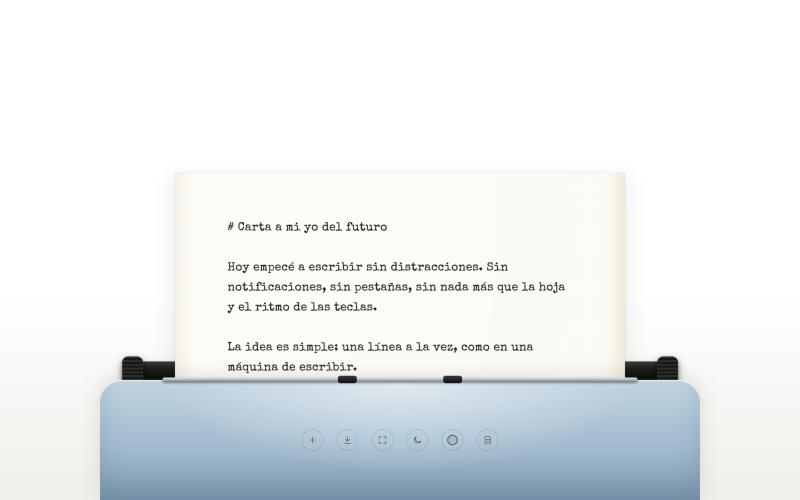
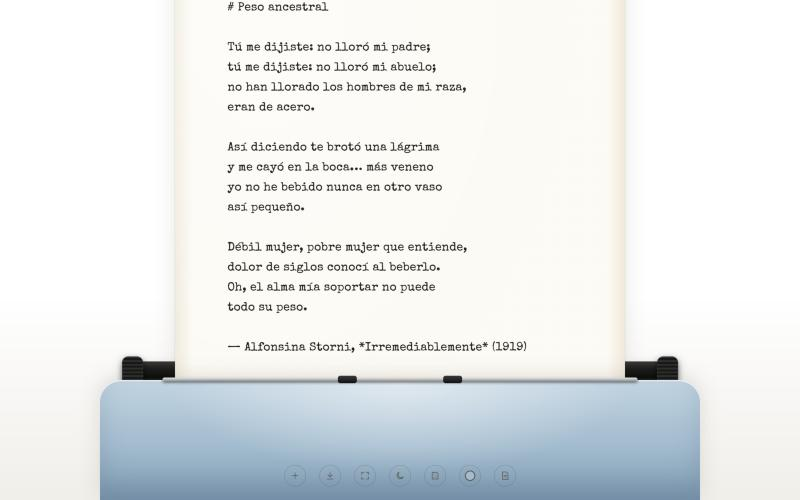
Modo retro, versión móvil y botones fijos
- Modo retro: hoja de papel madera, tinta marrón y una foto panorámica
  del mecanismo de una máquina antigua a todo el ancho (imágenes
  generadas con Flux 2 Pro y Flux Pro 1.1 Ultra vía Comfy Cloud).
- La primera hoja muestra "Peso ancestral" de Alfonsina Storni
  (dominio público).
- Celular y tablet: toda la pantalla es la hoja.
- Los siete botones quedan siempre en el mismo lugar, con mejor
  contraste sobre la foto del modo retro.
- Al abrir, la hoja queda alineada en la última línea sin animación.
- README actualizado con capturas nuevas de todos los modos.

diff --git a/components/Typewriter.tsx b/components/Typewriter.tsx
@@ -7,6 +7,29 @@ const THEME_KEY = "typewriter:theme";
 
 const MACHINE_KEY = "typewriter:machine";
 const MACHINE_OFF_KEY = "typewriter:machine-off";
+const RETRO_KEY = "typewriter:retro";
+
+// Shown the first time the app is opened, before anything has been saved.
+// Alfonsina Storni (1892–1938), "Peso ancestral" — public domain.
+const WELCOME_TEXT = `# Peso ancestral
+
+Tú me dijiste: no lloró mi padre;
+tú me dijiste: no lloró mi abuelo;
+no han llorado los hombres de mi raza,
+eran de acero.
+
+Así diciendo te brotó una lágrima
+y me cayó en la boca… más veneno
+yo no he bebido nunca en otro vaso
+así pequeño.
+
+Débil mujer, pobre mujer que entiende,
+dolor de siglos conocí al beberlo.
+Oh, el alma mía soportar no puede
+todo su peso.
+
+— Alfonsina Storni, *Irremediablemente* (1919)
+`;
 
 type Theme = "dark" | "light";
 
@@ -43,11 +66,14 @@ export default function Typewriter() {
   const [theme, setTheme] = useState<Theme>("dark");
   const [machineStyle, setMachineStyle] = useState<MachineStyle>("negra");
   const [machineOff, setMachineOff] = useState(false);
+  const [retro, setRetro] = useState(false);
 
   const scrollerRef = useRef<HTMLDivElement>(null);
   const textareaRef = useRef<HTMLTextAreaElement>(null);
   const mirrorRef = useRef<HTMLDivElement>(null);
   const machineRef = useRef<HTMLDivElement>(null);
+  // Becomes true once the draft has been restored and aligned; from then on alignment animates.
+  const settledRef = useRef(false);
 
   // Keep the line with the caret right above the paper bail, like a real carriage.
   const alignCaret = useCallback((smooth: boolean) => {
@@ -74,11 +100,12 @@ export default function Typewriter() {
   // Load the saved draft once on mount.
   useEffect(() => {
     try {
-      setText(localStorage.getItem(STORAGE_KEY) ?? "");
+      setText(localStorage.getItem(STORAGE_KEY) ?? WELCOME_TEXT);
       if (localStorage.getItem(THEME_KEY) === "light") setTheme("light");
       const savedStyle = localStorage.getItem(MACHINE_KEY);
       if (MACHINE_STYLES.includes(savedStyle as MachineStyle)) setMachineStyle(savedStyle as MachineStyle);
       setMachineOff(localStorage.getItem(MACHINE_OFF_KEY) === "1");
+      setRetro(localStorage.getItem(RETRO_KEY) === "1");
     } catch {}
     setLoaded(true);
     // Resume writing where the draft left off.
@@ -88,6 +115,7 @@ export default function Typewriter() {
       textarea.focus();
       textarea.setSelectionRange(textarea.value.length, textarea.value.length);
       alignCaret(false);
+      settledRef.current = true;
     });
   }, [alignCaret]);
 
@@ -108,8 +136,8 @@ export default function Typewriter() {
     if (!textarea) return;
     textarea.style.height = "auto";
     textarea.style.height = `${textarea.scrollHeight}px`;
-    alignCaret(loaded);
-  }, [text, loaded, alignCaret]);
+    alignCaret(settledRef.current);
+  }, [text, loaded, retro, alignCaret]);
 
   // Re-align when the caret moves (arrows, clicks) or the window changes size.
   useEffect(() => {
@@ -186,6 +214,14 @@ export default function Typewriter() {
     textareaRef.current?.focus();
   }, []);
 
+  const toggleRetro = useCallback(() => {
+    setRetro((current) => {
+      save(RETRO_KEY, current ? "0" : "1");
+      return !current;
+    });
+    textareaRef.current?.focus();
+  }, []);
+
   const toggleMachine = useCallback(() => {
     setMachineOff((current) => {
       save(MACHINE_OFF_KEY, current ? "0" : "1");
@@ -219,7 +255,7 @@ export default function Typewriter() {
 
   return (
     <main
-      className={`desk${typing ? " is-typing" : ""}${machineOff ? " machine-off" : ""}`}
+      className={`desk${typing ? " is-typing" : ""}${machineOff ? " machine-off" : ""}${retro ? " retro" : ""}`}
       data-theme={theme}
       data-machine={machineStyle}
     >
@@ -308,16 +344,32 @@ export default function Typewriter() {
               )}
             </svg>
           </button>
-          {!machineOff && (
-            <button
-              className="key"
-              onClick={nextMachineStyle}
-              title={`Estilo de máquina: ${machineStyle}`}
-              aria-label={`Cambiar estilo de máquina (actual: ${machineStyle})`}
-            >
-              <span className="swatch" />
-            </button>
-          )}
+          <button
+            className={`key${retro ? " is-active" : ""}`}
+            onClick={toggleRetro}
+            title={retro ? "Desactivar modo retro" : "Modo retro (papel madera)"}
+            aria-label="Modo retro"
+            aria-pressed={retro}
+          >
+            <svg viewBox="0 0 24 24" aria-hidden>
+              <path d="M5 4h11l3 3v13H5z" />
+              <path d="M8.5 9.5h.01M12 8.5h.01M10 13h.01M14.5 12h.01M8.5 16.5h.01M13 16h.01M15.5 15.5h.01" />
+            </svg>
+          </button>
+          {/* Always rendered so the row never shifts; disabled when there is no machine color to change */}
+          <button
+            className="key"
+            onClick={nextMachineStyle}
+            disabled={machineOff || retro}
+            title={
+              machineOff || retro
+                ? "El color de máquina no aplica en este modo"
+                : `Estilo de máquina: ${machineStyle}`
+            }
+            aria-label={`Cambiar estilo de máquina (actual: ${machineStyle})`}
+          >
+            <span className="swatch" />
+          </button>
           <button
             className="key"
             onClick={toggleMachine}

diff --git a/app/globals.css b/app/globals.css
@@ -38,6 +38,39 @@
   --machine-drop: 0 -6px 30px rgba(60, 50, 30, 0.14);
 }
 
+/* ---------- Retro mode: kraft paper (papel madera) and worn-ribbon ink ---------- */
+
+.desk.retro {
+  --ink: #2b1d11;
+  --ink-faint: rgba(43, 29, 17, 0.4);
+  --ink-shadow: 0 0 0.9px rgba(43, 29, 17, 0.75);
+  --paper-bg:
+    linear-gradient(to right, rgba(90, 60, 25, 0.16), transparent 4%, transparent 96%, rgba(90, 60, 25, 0.16)),
+    url("/papel-madera.jpg") top center / 1024px auto repeat;
+  --desk-bg: radial-gradient(ellipse at 50% 30%, #3a2c20, #17110c 70%);
+  --paper-shadow: 0 0 0 1px rgba(60, 35, 10, 0.25), 0 12px 40px rgba(0, 0, 0, 0.5);
+}
+
+.desk.retro[data-theme="light"] {
+  --desk-bg: linear-gradient(to bottom, #f7f1e6 60%, #ebe0cc);
+  --paper-shadow: 0 0 0 1px rgba(60, 35, 10, 0.18), 0 10px 30px rgba(80, 55, 20, 0.2);
+}
+
+/* Retro machine: worn black body; overrides the chosen machine style */
+.desk.retro:not(.machine-off)[data-machine] {
+  /* AI-generated photo (Flux 2 Pro via Comfy Cloud), darkened at the bottom so the controls stay legible */
+  --machine-bg:
+    linear-gradient(to bottom, transparent 55%, rgba(8, 7, 6, 0.85) 90%),
+    url("/maquina-retro.jpg") top center / cover no-repeat,
+    #0b0a09;
+  --machine-inset: inset 0 0 0 transparent;
+  --control: #b8a98c;
+  --control-strong: #eadcc0;
+  --control-border: rgba(234, 220, 192, 0.25);
+  --control-border-strong: rgba(234, 220, 192, 0.6);
+  --control-hover-bg: rgba(234, 220, 192, 0.06);
+}
+
 /* ---------- Machine styles (body color) ---------- */
 
 /* Controls sitting on a dark body */
@@ -187,9 +220,11 @@ body {
   min-height: calc(var(--paper-w) * 1.294);
   margin: 0 auto;
   padding: var(--paper-pad-top) var(--paper-pad-x) 120px;
-  background:
+  background: var(
+    --paper-bg,
     radial-gradient(ellipse at 20% 10%, rgba(255, 255, 255, 0.5), transparent 60%),
-    linear-gradient(to right, var(--paper-edge), var(--paper) 4%, var(--paper) 96%, var(--paper-edge));
+    linear-gradient(to right, var(--paper-edge), var(--paper) 4%, var(--paper) 96%, var(--paper-edge))
+  );
   box-shadow: var(--paper-shadow);
 }
 
@@ -220,7 +255,7 @@ textarea.type-text {
   background: transparent;
   color: var(--ink);
   caret-color: var(--ink);
-  text-shadow: 0 0 0.6px rgba(35, 32, 28, 0.55);
+  text-shadow: var(--ink-shadow, 0 0 0.6px rgba(35, 32, 28, 0.55));
 }
 
 textarea.type-text::placeholder {
@@ -267,8 +302,6 @@ textarea.type-text::placeholder {
 /* ---------- Machine hidden: just the sheet ---------- */
 
 .machine-off .machine {
-  justify-content: flex-end;
-  padding-bottom: 22px;
   pointer-events: none;
 }
 
@@ -320,7 +353,12 @@ textarea.type-text::placeholder {
   background: linear-gradient(to bottom, #3a3a3a, #111);
 }
 
+/* Same spot in every mode: centered, a fixed distance from the bottom of the screen */
 .controls {
+  position: absolute;
+  left: 50%;
+  bottom: 22px;
+  transform: translateX(-50%);
   display: flex;
   gap: 22px;
   transition: opacity 0.6s ease;
@@ -368,8 +406,20 @@ textarea.type-text::placeholder {
   box-shadow: 0 0 0 1.5px currentColor;
 }
 
+.key:disabled {
+  opacity: 0.3;
+  cursor: default;
+  pointer-events: none;
+}
+
 .key:active {
   transform: translateY(1px);
+}
+
+.key.is-active {
+  color: var(--control-strong);
+  border-color: var(--control-border-strong);
+  background: var(--control-hover-bg);
 }
 
 .key:focus-visible {
@@ -386,5 +436,95 @@ textarea.type-text::placeholder {
 
   .knob {
     display: none;
+  }
+}
+
+/* ---------- Retro machine: panoramic photo of an antique mechanism ---------- */
+
+.desk.retro {
+  /* The photo is 4:1; on narrow screens it is cropped around the center */
+  --machine-h: clamp(180px, 25vw, 42dvh);
+}
+
+/* The photo already shows its own carriage, scale and rollers */
+.desk.retro .bail,
+.desk.retro:not(.machine-off) .platen {
+  display: none;
+}
+
+.desk.retro:not(.machine-off) .machine {
+  width: 100vw;
+}
+
+.desk.retro:not(.machine-off) .machine::before {
+  border-radius: 0;
+}
+
+
+/* Over the busy photo the outline-only buttons get lost: give them a solid dark backing */
+.desk.retro:not(.machine-off) .key {
+  color: #f1e6cf;
+  border-color: rgba(241, 230, 207, 0.55);
+  background: rgba(12, 10, 8, 0.78);
+  box-shadow: 0 2px 8px rgba(0, 0, 0, 0.6);
+  -webkit-backdrop-filter: blur(3px);
+  backdrop-filter: blur(3px);
+}
+
+.desk.retro:not(.machine-off) .key:hover {
+  color: #ffffff;
+  border-color: rgba(241, 230, 207, 0.9);
+  background: rgba(40, 33, 25, 0.92);
+}
+
+.desk.retro:not(.machine-off) .key.is-active {
+  color: #f5d99a;
+  border-color: #d9b56a;
+}
+
+/* ---------- Mobile and tablet: the whole screen is the sheet ---------- */
+
+@media (max-width: 1024px) {
+  :root {
+    --paper-w: 100vw;
+  }
+
+  .desk {
+    --sheet-bg: var(--paper);
+    background: var(--paper);
+  }
+
+  .desk.retro {
+    --sheet-bg: url("/papel-madera.jpg") top center / 1024px auto repeat, #c9a97a;
+    background: #c9a97a;
+  }
+
+  /* The paper texture scrolls with the text, like the sheet moving through the machine */
+  .scroller {
+    background: var(--sheet-bg);
+    background-attachment: local;
+  }
+
+  .paper {
+    min-height: 0;
+    background: transparent;
+    box-shadow: none;
+  }
+}
+
+/* Seven controls have to fit across a phone */
+@media (max-width: 480px) {
+  .controls {
+    gap: 8px;
+  }
+
+  .key {
+    width: 32px;
+    height: 32px;
+  }
+
+  .key svg {
+    width: 15px;
+    height: 15px;
   }
 }
